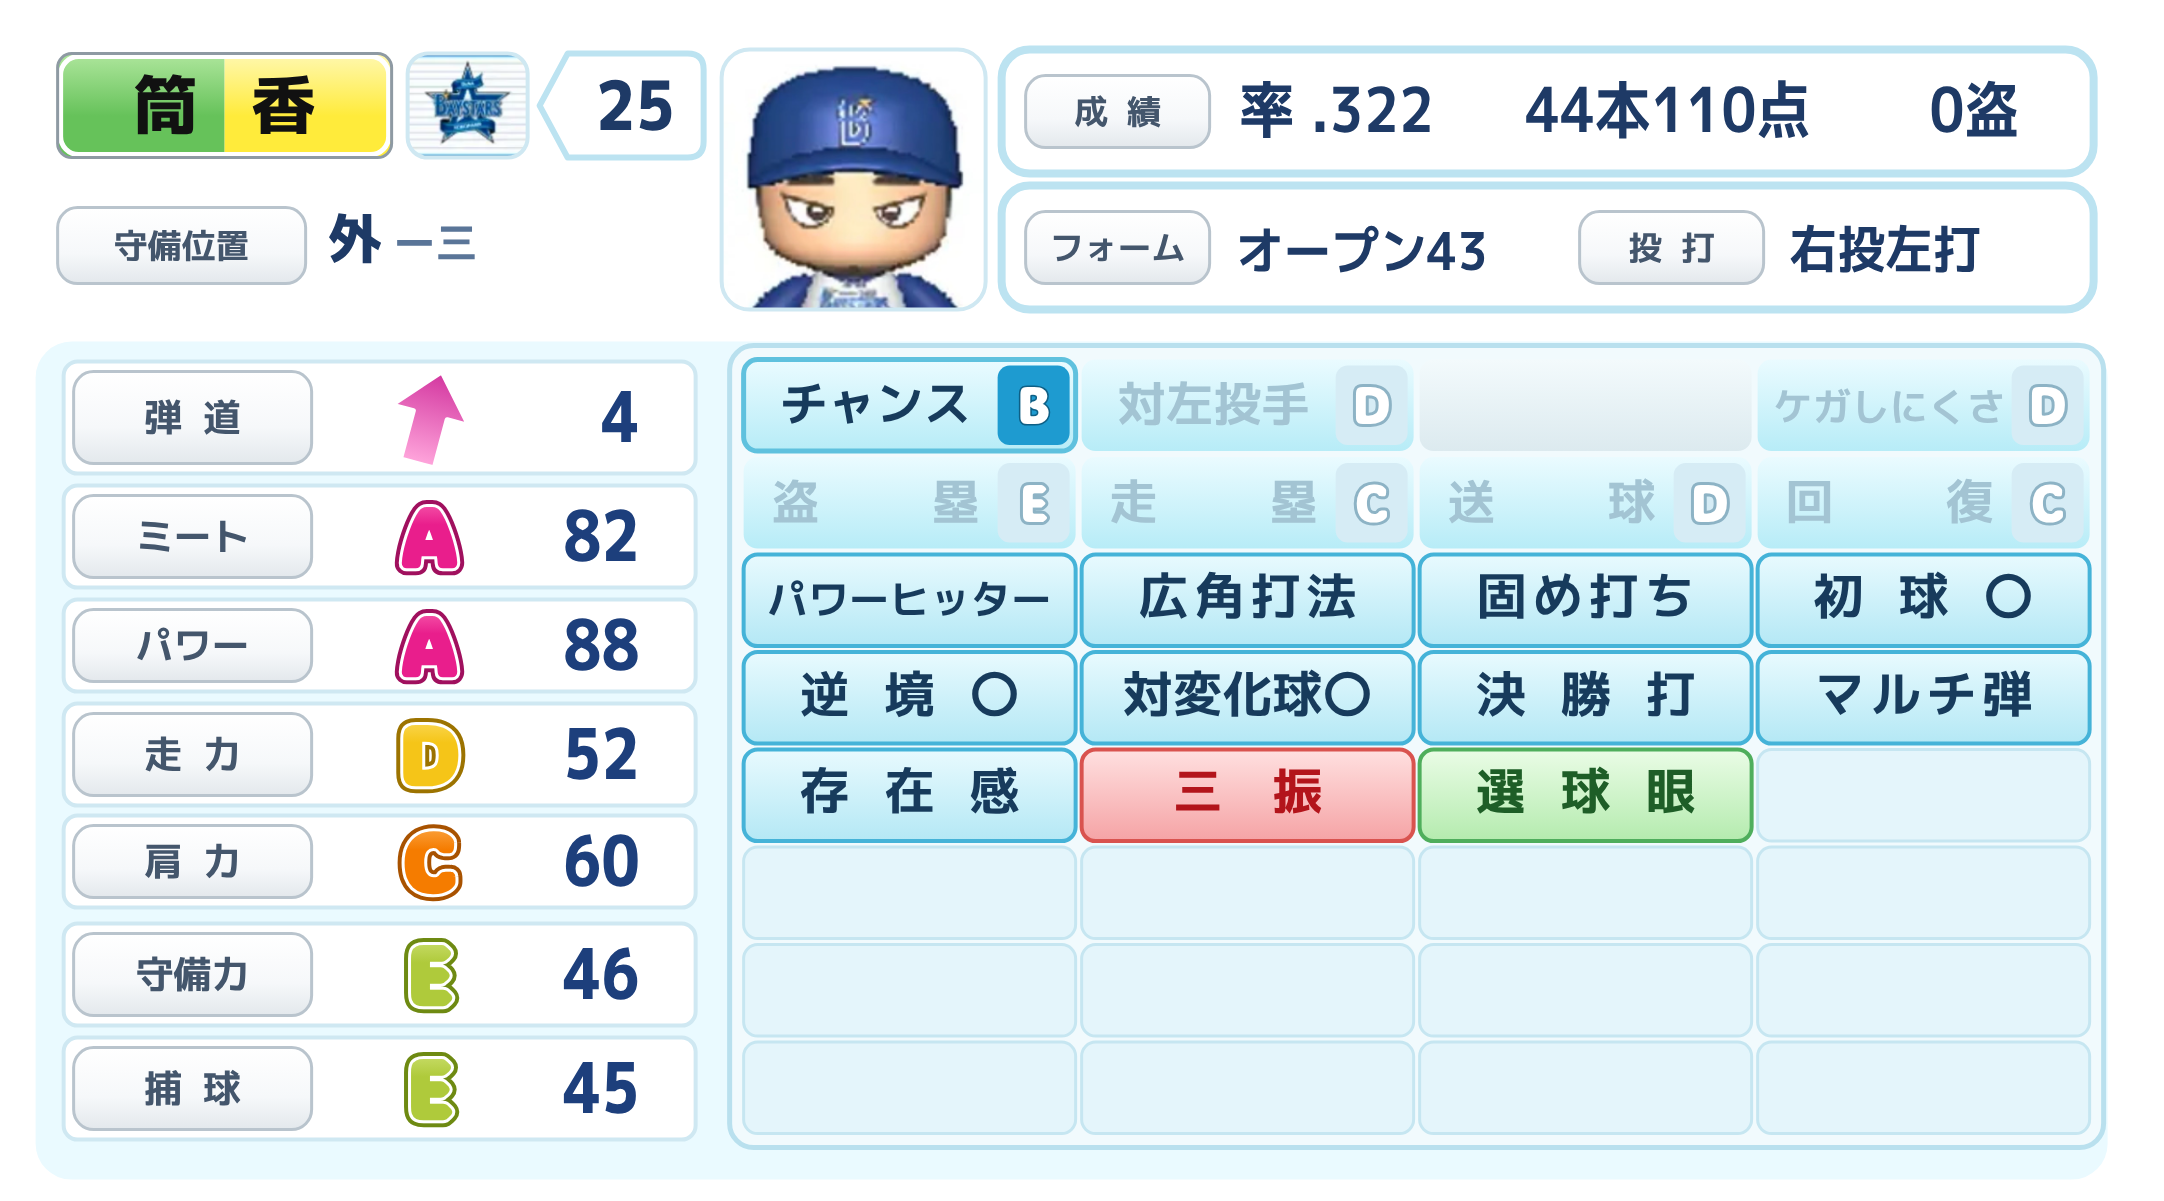
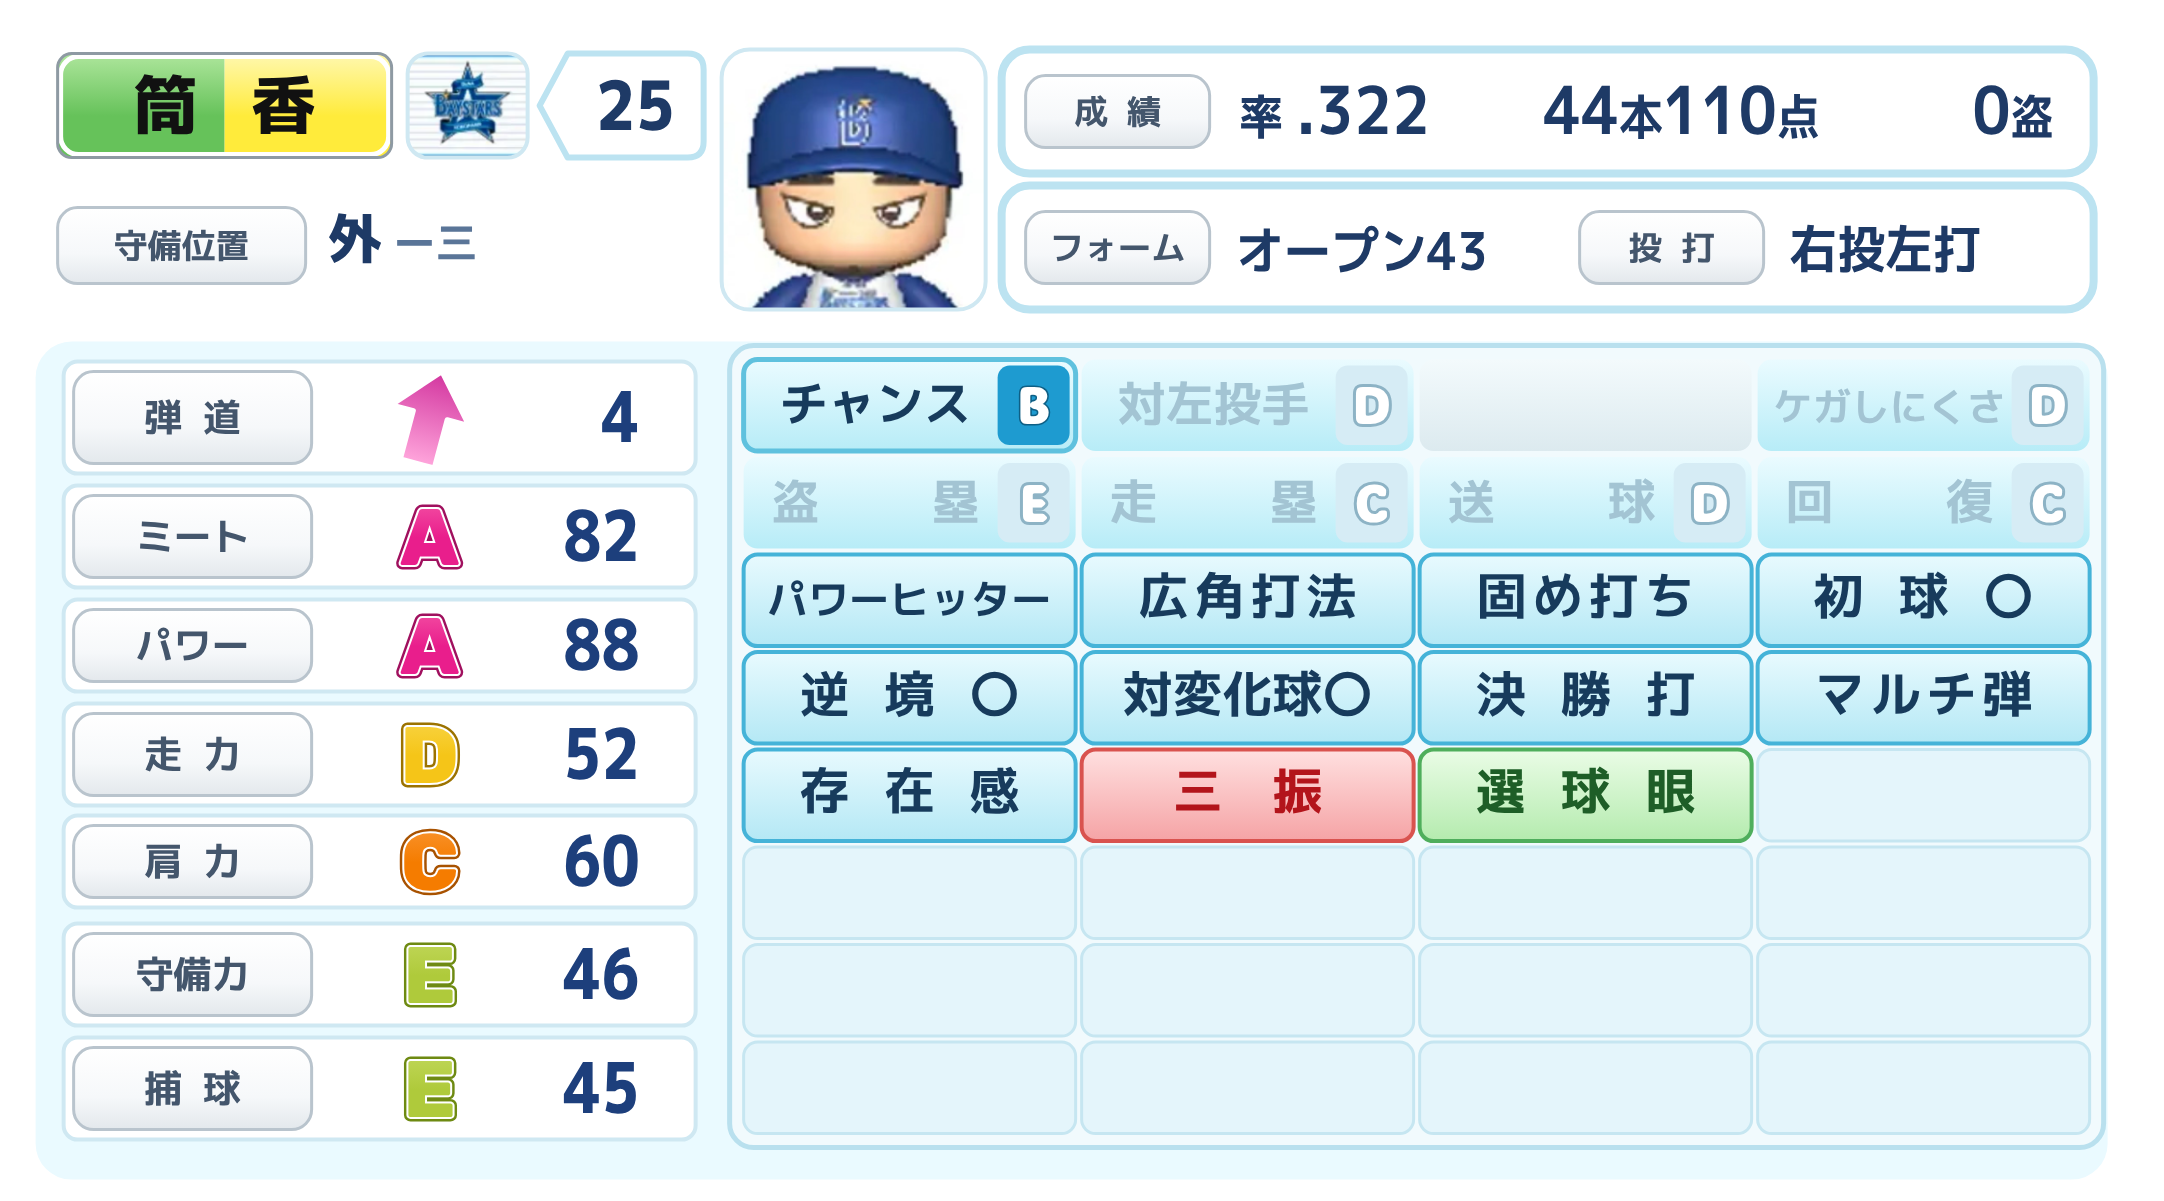
能力画像ジェネレーター（野手）：ランク文字の書体と成績欄の並べ方を直す
- ランク文字を、ADLaM Display に太い縁を重ねた形から、角ばった極太の
  Rubik（800）に替え、縁取りを細く（外側に同じ色の濃い縁、内側に白い縁）
- 成績欄を実機の並べ方に：数字は大きく、率・本・点・盗は小さく。
  「率 .322」は左、「44本110点」は続けて中央、「0盗」は右端にそろえる
- 使用例の画像を作り直す

Claude-Session: https://claude.ai/code/session_01SKh1jhAp32CEmbZCaaEmgk

diff --git a/nouryoku/index.html b/nouryoku/index.html
@@ -19,7 +19,7 @@
 <!-- カード内のランク文字・数字に使うフォント（元デザインの ADLaM Display / Source Sans Pro を使用） -->
 <link rel="preconnect" href="https://fonts.googleapis.com">
 <link rel="preconnect" href="https://fonts.gstatic.com" crossorigin>
-<link href="https://fonts.googleapis.com/css2?family=ADLaM+Display&family=Source+Sans+3:wght@700;900&family=M+PLUS+Rounded+1c:wght@700;800;900&family=M+PLUS+1p:wght@500;700;800&display=swap" rel="stylesheet">
+<link href="https://fonts.googleapis.com/css2?family=ADLaM+Display&family=Source+Sans+3:wght@700;900&family=M+PLUS+Rounded+1c:wght@700;800;900&family=M+PLUS+1p:wght@500;700;800&family=Rubik:wght@800&display=swap" rel="stylesheet">
 
 <meta name="keywords" content="パワプロ,パワプロ風,能力画像,能力メーカー,能力作成ツール,画像作成,ジェネレーター,自己紹介,選手カード,特殊能力,野手,画像生成,無料">
 
@@ -337,7 +337,7 @@ footer.disclaimer{ margin-top:30px; font-size:0.82rem; color:var(--ink-mute); bo
 </p>
 
 <p>
-<img src="/nouryoku/example-tsutsugo.png?v=4" alt="パワプロ風 能力画像ジェネレーター（野手）で作成した能力画像の例" width="2164" height="1201" loading="lazy" style="max-width:100%; height:auto; border:1px solid #c2cad6; border-radius:12px;">
+<img src="/nouryoku/example-tsutsugo.png?v=5" alt="パワプロ風 能力画像ジェネレーター（野手）で作成した能力画像の例" width="2164" height="1201" loading="lazy" style="max-width:100%; height:auto; border:1px solid #c2cad6; border-radius:12px;">
 </p>
 
 <h2>よくある質問</h2>
@@ -703,26 +703,34 @@ function labelPill(x, y, w, h, text, size) {
 }
 
 /* ---- 能力値のランク文字 ----
-   実機は、文字の外側に同じ色の濃い縁、その内側に白い縁があり、
-   文字は上が明るく下が濃いグラデーション。 */
+   実機は角ばった極太の字で、上が明るいグラデーション。縁取りは細い
+   （外側に同じ色の濃い縁、その内側に白い縁）。 */
 var RANK_DARK = {
     S: "#C9578F", A: "#A0105E", B: "#A31A16", C: "#A85200",
     D: "#9C7300", E: "#6E8A12", F: "#1F7FA3", G: "#5E5E5E"
 };
 var RANK_LIGHT = {
-    S: "#FFE0EF", A: "#FF7FC0", B: "#FF7A70", C: "#FFC070",
-    D: "#FFE680", E: "#DCEB8C", F: "#A8E6F8", G: "#D0D0D0"
+    S: "#FBCDE3", A: "#F65DAA", B: "#F2635E", C: "#FA9B3C",
+    D: "#F9D850", E: "#C6DB62", F: "#7FD4F0", G: "#B8B8B8"
 };
 var rankLetterSeq = 0;
 function rankLetter(cx, baseline, rank, size) {
     var gid = "gRankL" + (rankLetterSeq++);
-    var font = 'font-family="\'ADLaM Display\',sans-serif" font-size="' + size + '" font-weight="800" text-anchor="middle"';
+    var font = 'font-family="Rubik,&quot;Arial Black&quot;,sans-serif" font-size="' + size + '" font-weight="800" text-anchor="middle"';
     return '<defs><linearGradient id="' + gid + '" x1="0" y1="0" x2="0" y2="1">' +
-           '<stop offset="0" stop-color="' + RANK_LIGHT[rank] + '"/><stop offset="0.4" stop-color="' + STAT_RANK_COLOR[rank] + '"/><stop offset="1" stop-color="' + STAT_RANK_COLOR[rank] + '"/></linearGradient></defs>' +
-           '<text x="' + cx + '" y="' + baseline + '" ' + font + ' fill="' + RANK_DARK[rank] + '" stroke="' + RANK_DARK[rank] + '" stroke-width="9" stroke-linejoin="round">' + rank + '</text>' +
-           '<text x="' + cx + '" y="' + baseline + '" ' + font + ' fill="#FFFFFF" stroke="#FFFFFF" stroke-width="5" stroke-linejoin="round">' + rank + '</text>' +
-           /* 字そのものも少し太らせる（同じグラデーションの細い縁） */
-           '<text x="' + cx + '" y="' + baseline + '" ' + font + ' fill="url(#' + gid + ')" stroke="url(#' + gid + ')" stroke-width="2" stroke-linejoin="round">' + rank + '</text>';
+           '<stop offset="0" stop-color="' + RANK_LIGHT[rank] + '"/><stop offset="0.5" stop-color="' + STAT_RANK_COLOR[rank] + '"/><stop offset="1" stop-color="' + STAT_RANK_COLOR[rank] + '"/></linearGradient></defs>' +
+           '<text x="' + cx + '" y="' + baseline + '" ' + font + ' fill="' + RANK_DARK[rank] + '" stroke="' + RANK_DARK[rank] + '" stroke-width="4.5" stroke-linejoin="round">' + rank + '</text>' +
+           '<text x="' + cx + '" y="' + baseline + '" ' + font + ' fill="#FFFFFF" stroke="#FFFFFF" stroke-width="2" stroke-linejoin="round">' + rank + '</text>' +
+           '<text x="' + cx + '" y="' + baseline + '" ' + font + ' fill="url(#' + gid + ')">' + rank + '</text>';
+}
+
+/* ---- 数字は大きく、単位（率・本・点・盗）は小さく ----
+   実機の成績欄は、数字に比べて漢字の単位がひと回り小さい。 */
+function unitTspans(str, big) {
+    return String(str).split(/([0-9０-９.．\-]+)/).filter(function (part) { return part !== ""; }).map(function (part) {
+        var isNum = /^[0-9０-９.．\-]+$/.test(part);
+        return '<tspan font-size="' + (isNum ? big : Math.round(big * 0.74)) + '">' + esc(part) + '</tspan>';
+    }).join("");
 }
 
 function esc(s) {
@@ -770,11 +778,11 @@ var L = {
     posValue:    { x: 164, y: 99,  w: 188, h: 42 },
     bioRow1:     { x: 501, y: 25,  w: 546, h: 62 },
     bio1Label:   { x: 513, y: 38,  w: 92,  h: 36 },
+    /* 実機の並べ方：「率 .322」は左、「44本110点」は続けて中央、「0盗」は右端にそろえる */
     bio1Vals:    [
-        { x: 620, y: 36, w: 132, key: "avg", pre: "率 " },
-        { x: 763, y: 36, w: 66, key: "hr", pre: "" },
-        { x: 826, y: 36, w: 96, key: "rbi", pre: "" },
-        { x: 965, y: 36, w: 70, key: "sb", pre: "" }
+        { x: 620, y: 36, w: 135, keys: ["avg"], pre: "率 " },
+        { x: 772, y: 36, w: 170, keys: ["hr", "rbi"], pre: "" },
+        { x: 1027, y: 36, w: 80, keys: ["sb"], pre: "", anchor: "end" }
     ],
     bioRow2:     { x: 501, y: 93,  w: 546, h: 62 },
     bio2Label1:  { x: 513, y: 106, w: 92,  h: 36 },
@@ -1041,7 +1049,7 @@ function renderCard() {
         var rank = s.hasRank ? document.getElementById("stat-rank-" + s.id).value : null;
         var v = document.getElementById("stat-val-" + s.id).value;
         var rankText = rank
-            ? rankLetter(L.statRankX + L.statRankW / 2, y + h / 2 + 14, rank, 39)
+            ? rankLetter(L.statRankX + L.statRankW / 2, y + h / 2 + 14, rank, 40)
             : (s.id === "traj" ? trajArrow(L.statRankX + L.statRankW / 2, y + h / 2, parseInt(v, 10)) : "");
         return '<rect x="' + L.statColX + '" y="' + y + '" width="' + statCardW + '" height="' + h + '" rx="7" fill="#FFFFFF" stroke="#CFE8F2" stroke-width="2"/>' +
                labelPill(L.statColX + 5, y + 5, L.statLabelW - 6, h - 10, labelVal("statlabel-" + s.id, s.label), 19) +
@@ -1055,8 +1063,8 @@ function renderCard() {
     var H = bodyBottom + 10;
 
     var bio1 = L.bio1Vals.map(function (b) {
-        var val = document.getElementById("p-" + b.key).value;
-        return '<text data-squeeze="0.88" data-max="' + b.w + '" x="' + b.x + '" y="' + (b.y + 30) + '" font-size="31" font-weight="700" fill="#1E3A66" font-family="&quot;M PLUS 1p&quot;,&quot;Hiragino Kaku Gothic ProN&quot;,sans-serif">' + esc(b.pre) + esc(val) + '</text>';
+        var val = b.keys.map(function (k) { return document.getElementById("p-" + k).value.trim(); }).join("");
+        return '<text data-squeeze="0.9" data-max="' + b.w + '" x="' + b.x + '" y="' + (b.y + 31) + '"' + (b.anchor ? ' text-anchor="' + b.anchor + '"' : '') + ' font-size="33" font-weight="700" fill="#1E3A66" font-family="&quot;M PLUS 1p&quot;,&quot;Hiragino Kaku Gothic ProN&quot;,sans-serif">' + unitTspans(b.pre + val, 33) + '</text>';
     }).join("");
 
     var svg = '' +
@@ -1246,7 +1254,7 @@ bindImageUpload("p-flagimg", function (v) { teamFlagImg = v; });
    代替フォントで描かれてしまうことがある。これを避けるため、書き出す
    直前にWebフォントをbase64で埋め込んだ<style>をSVGへ差し込む。
    フォントデータは初回のみ取得してキャッシュする。 */
-var FONT_CSS_URL = "https://fonts.googleapis.com/css2?family=ADLaM+Display&family=Source+Sans+3:wght@700;900&family=M+PLUS+Rounded+1c:wght@700;800;900&family=M+PLUS+1p:wght@500;700;800&display=swap";
+var FONT_CSS_URL = "https://fonts.googleapis.com/css2?family=ADLaM+Display&family=Source+Sans+3:wght@700;900&family=M+PLUS+Rounded+1c:wght@700;800;900&family=M+PLUS+1p:wght@500;700;800&family=Rubik:wght@800&display=swap";
 var embeddedFontCssPromise = null;
 function getEmbeddedFontCss() {
     if (embeddedFontCssPromise) return embeddedFontCssPromise;
